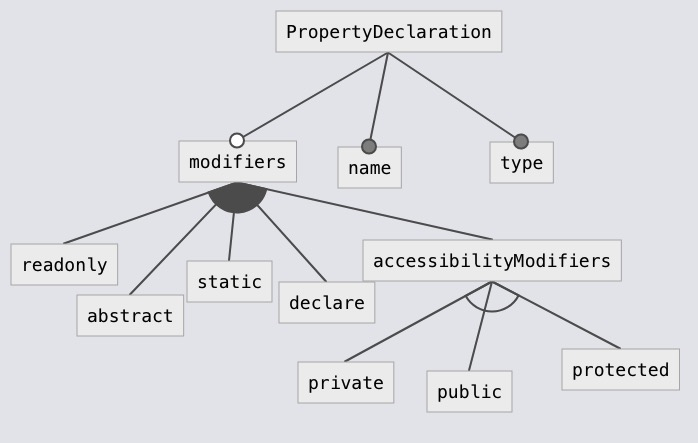
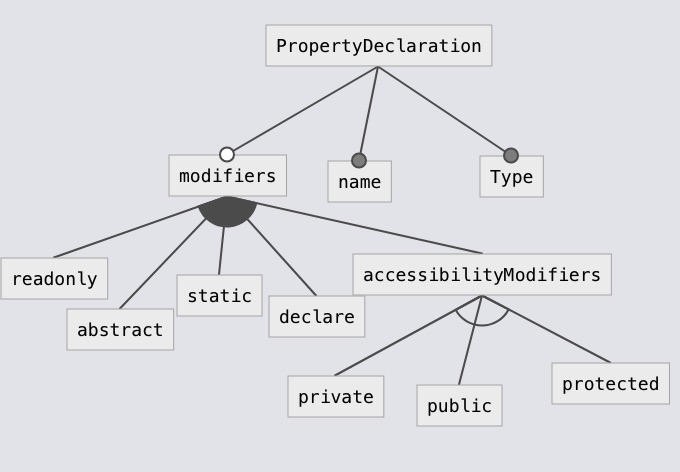
class feedback

diff --git a/groupMembersModel/class/setAccessor/code.ts b/groupMembersModel/class/setAccessor/code.ts
@@ -33,8 +33,8 @@ export const SetAccessorDeclaration: FeatureModel = {
       parentRelation: "mandatory",
     },
     {
-      name: "type",
-      parentRelation: "optional",
+      name: "Type",
+      parentRelation: "mandatory",
       children: [
         {
           name: "returnType",
@@ -54,8 +54,8 @@ export const SetAccessorDeclaration: FeatureModel = {
               parentRelation: "mandatory",
             },
             {
-              name: "type",
-              parentRelation: "optional",
+              name: "Type",
+              parentRelation: "mandatory",
             },
           ],
         },

diff --git a/groupMembersModel/class/constructor/code.ts b/groupMembersModel/class/constructor/code.ts
@@ -16,8 +16,8 @@ export const ConstructorDeclaration: FeatureModel = {
               parentRelation: "mandatory",
             },
             {
-              name: "type",
-              parentRelation: "optional",
+              name: "Type",
+              parentRelation: "mandatory",
             },
             {
               name: "extraOperator",

diff --git a/groupMembersModel/class/method/code.ts b/groupMembersModel/class/method/code.ts
@@ -51,8 +51,8 @@ export const MethodDeclaration: FeatureModel = {
               parentRelation: "mandatory",
             },
             {
-              name: "type",
-              parentRelation: "optional",
+              name: "Type",
+              parentRelation: "mandatory",
             },
             {
               name: "extraOperator",

diff --git a/groupMembersModel/class/code.ts b/groupMembersModel/class/code.ts
@@ -59,7 +59,7 @@ export const ClassDeclaration: FeatureModel = {
                   parentRelation: "mandatory",
                   children: [
                     {
-                      name: "ExpressionWithTypeArguments",
+                      name: "Expression",
                     },
                   ],
                 },

diff --git a/groupMembersModel/class/full/code.ts b/groupMembersModel/class/full/code.ts
@@ -59,7 +59,7 @@ export const ClassDeclaration: FeatureModel = {
                   parentRelation: "mandatory",
                   children: [
                     {
-                      name: "ExpressionWithTypeArguments",
+                      name: "Expression",
                     },
                   ],
                 },

diff --git a/groupMembersModel/class/getAccessor/code.ts b/groupMembersModel/class/getAccessor/code.ts
@@ -33,8 +33,8 @@ export const GetAccessorDeclaration: FeatureModel = {
       parentRelation: "mandatory",
     },
     {
-      name: "type",
-      parentRelation: "optional",
+      name: "Type",
+      parentRelation: "mandatory",
       children: [
         {
           name: "returnType",

diff --git a/groupMembersModel/class/property/code.ts b/groupMembersModel/class/property/code.ts
@@ -42,7 +42,7 @@ export const PropertyDeclaration: FeatureModel = {
       parentRelation: "mandatory",
     },
     {
-      name: "type",
+      name: "Type",
       parentRelation: "mandatory",
     },
   ],
